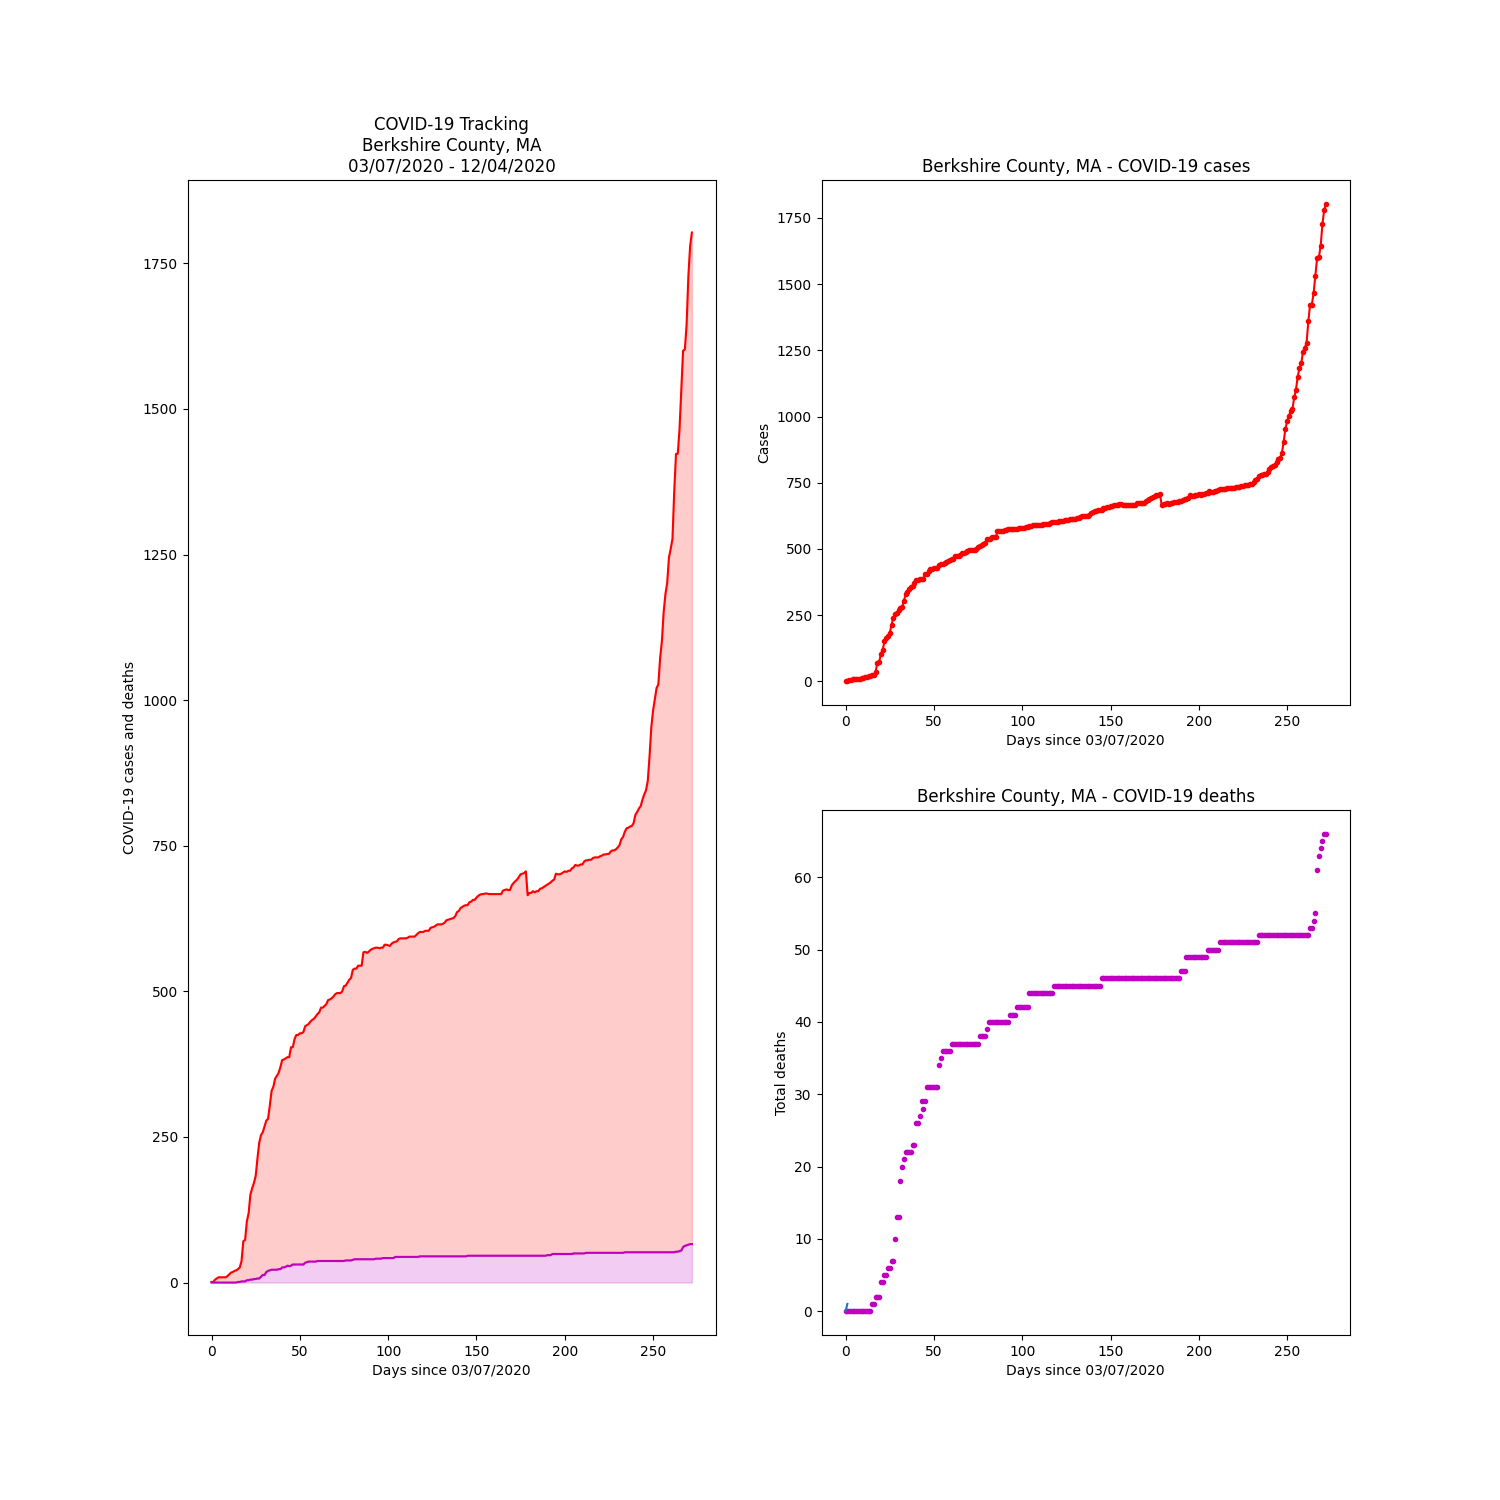
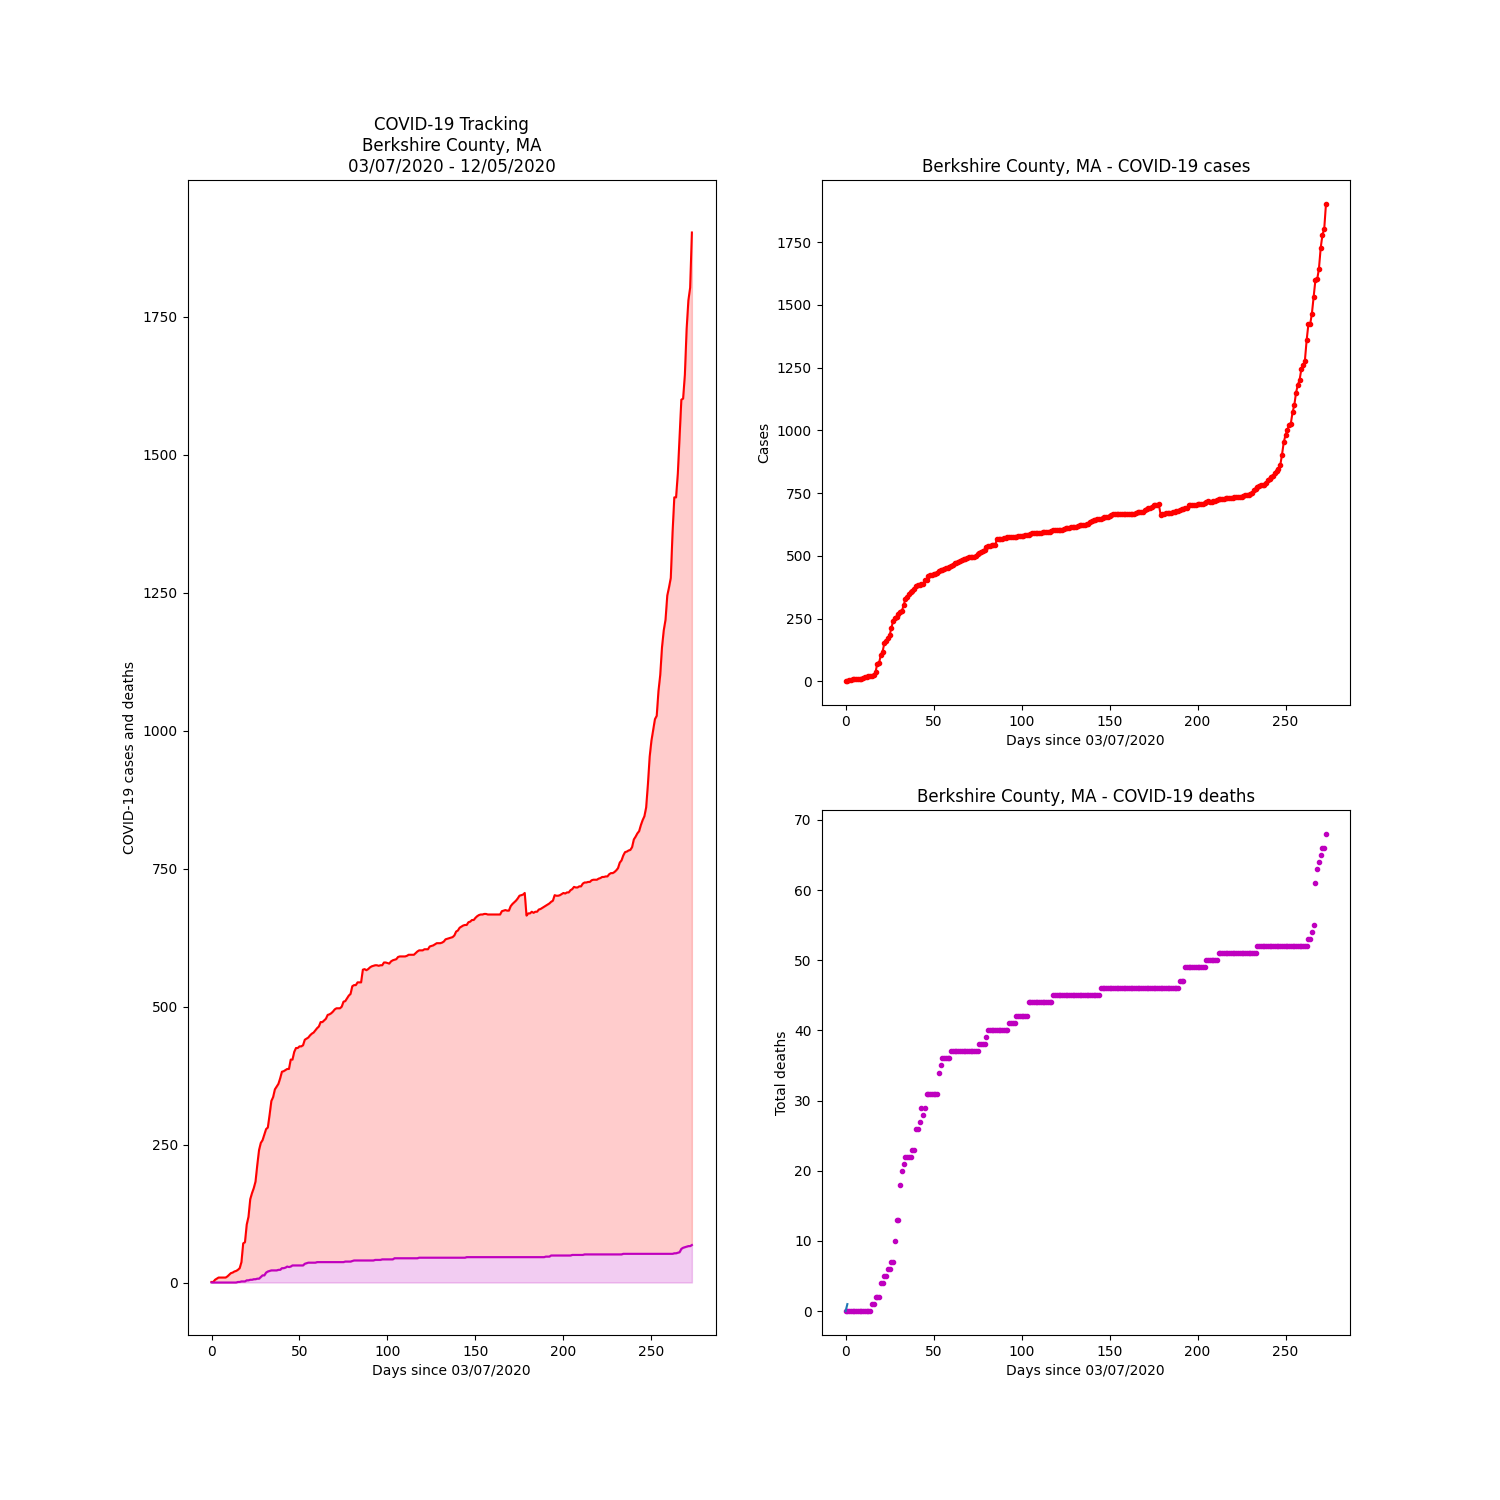
Berkshire County COVID update: Sun Dec  6 10:36:27 UTC 2020

diff --git a/README.md b/README.md
@@ -1,6 +1,6 @@
 # Berkshire County, Massachusetts COVID-19 data
 
-**Most Recent Update: 12/04/2020**
+**Most Recent Update: 12/05/2020**
 
 [Using the New York Time's covid tracker](https://raw.githubusercontent.com/nytimes/covid-19-data/master/us-counties.csv)
 
@@ -10,6 +10,7 @@
 
 Date        |  Cases (Total Δ=Daily Change)  |  Deaths (Total Δ=Daily Change)
 ------------|--------------------------------|-------------------------------
+2020-12-05  |  1903: Δ=100                   |  68: Δ=2
 2020-12-04  |  1803: Δ=23                    |  66: Δ=0
 2020-12-03  |  1780: Δ=52                    |  66: Δ=1
 2020-12-02  |  1728: Δ=83                    |  65: Δ=1
